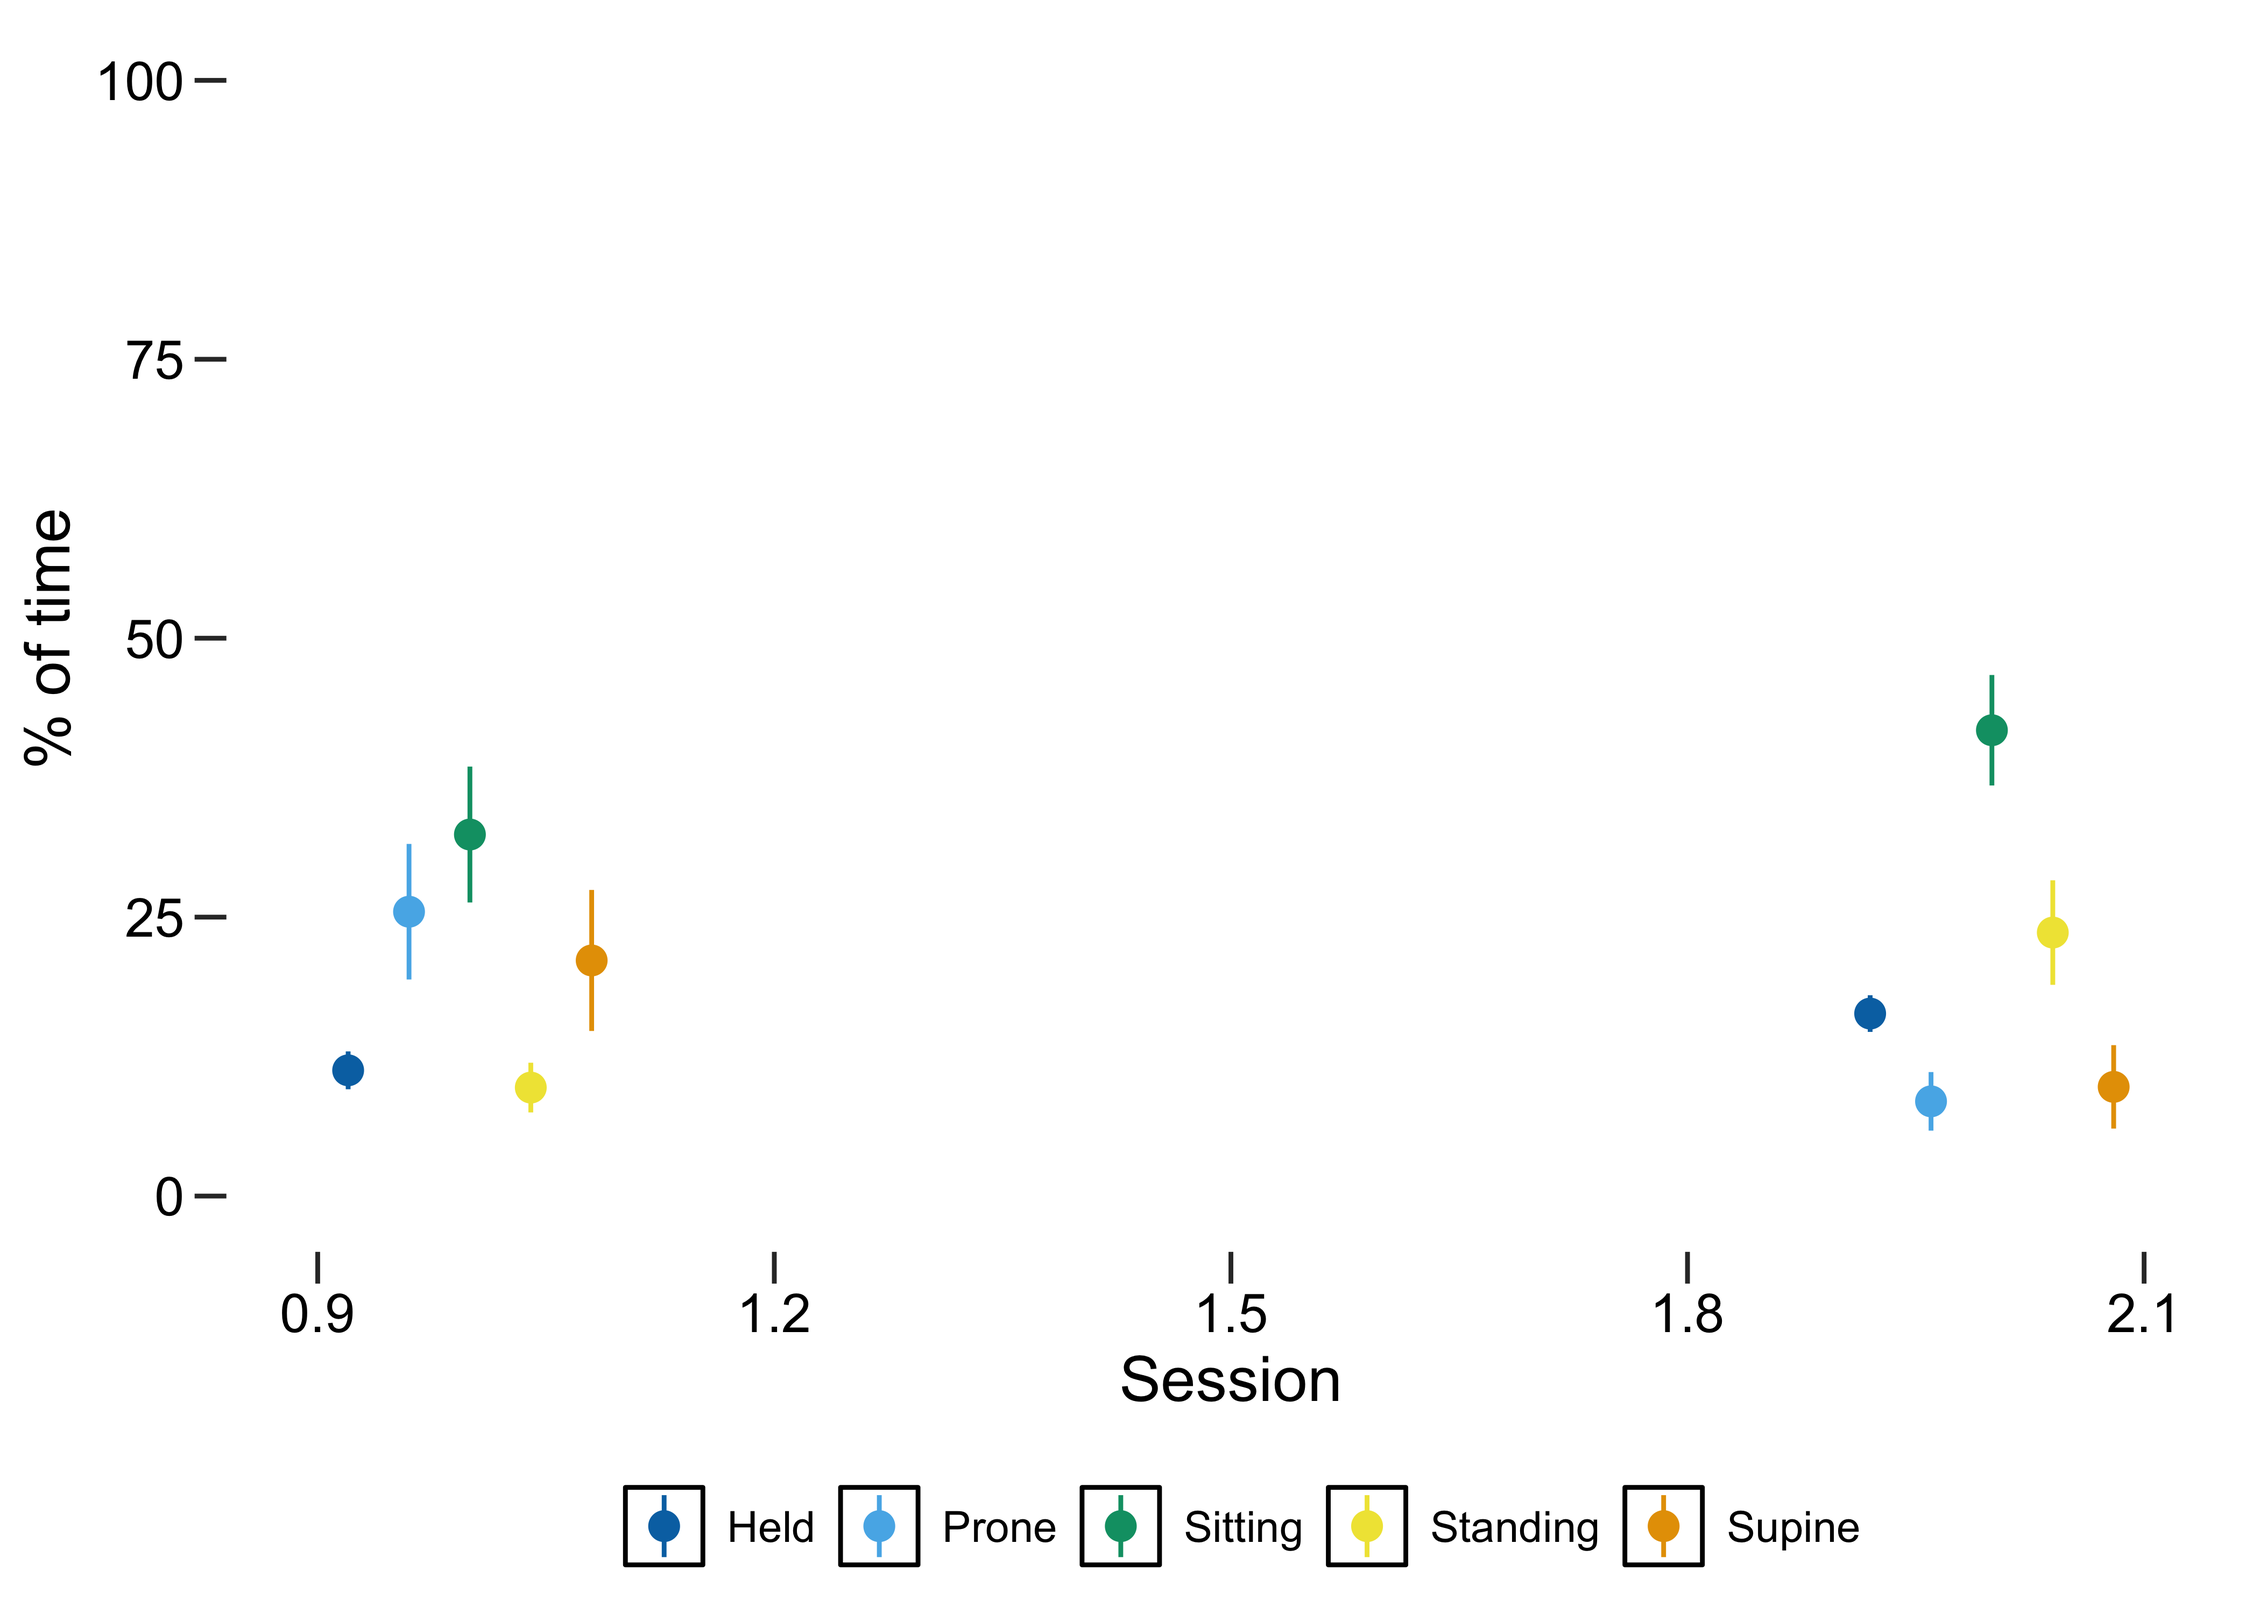
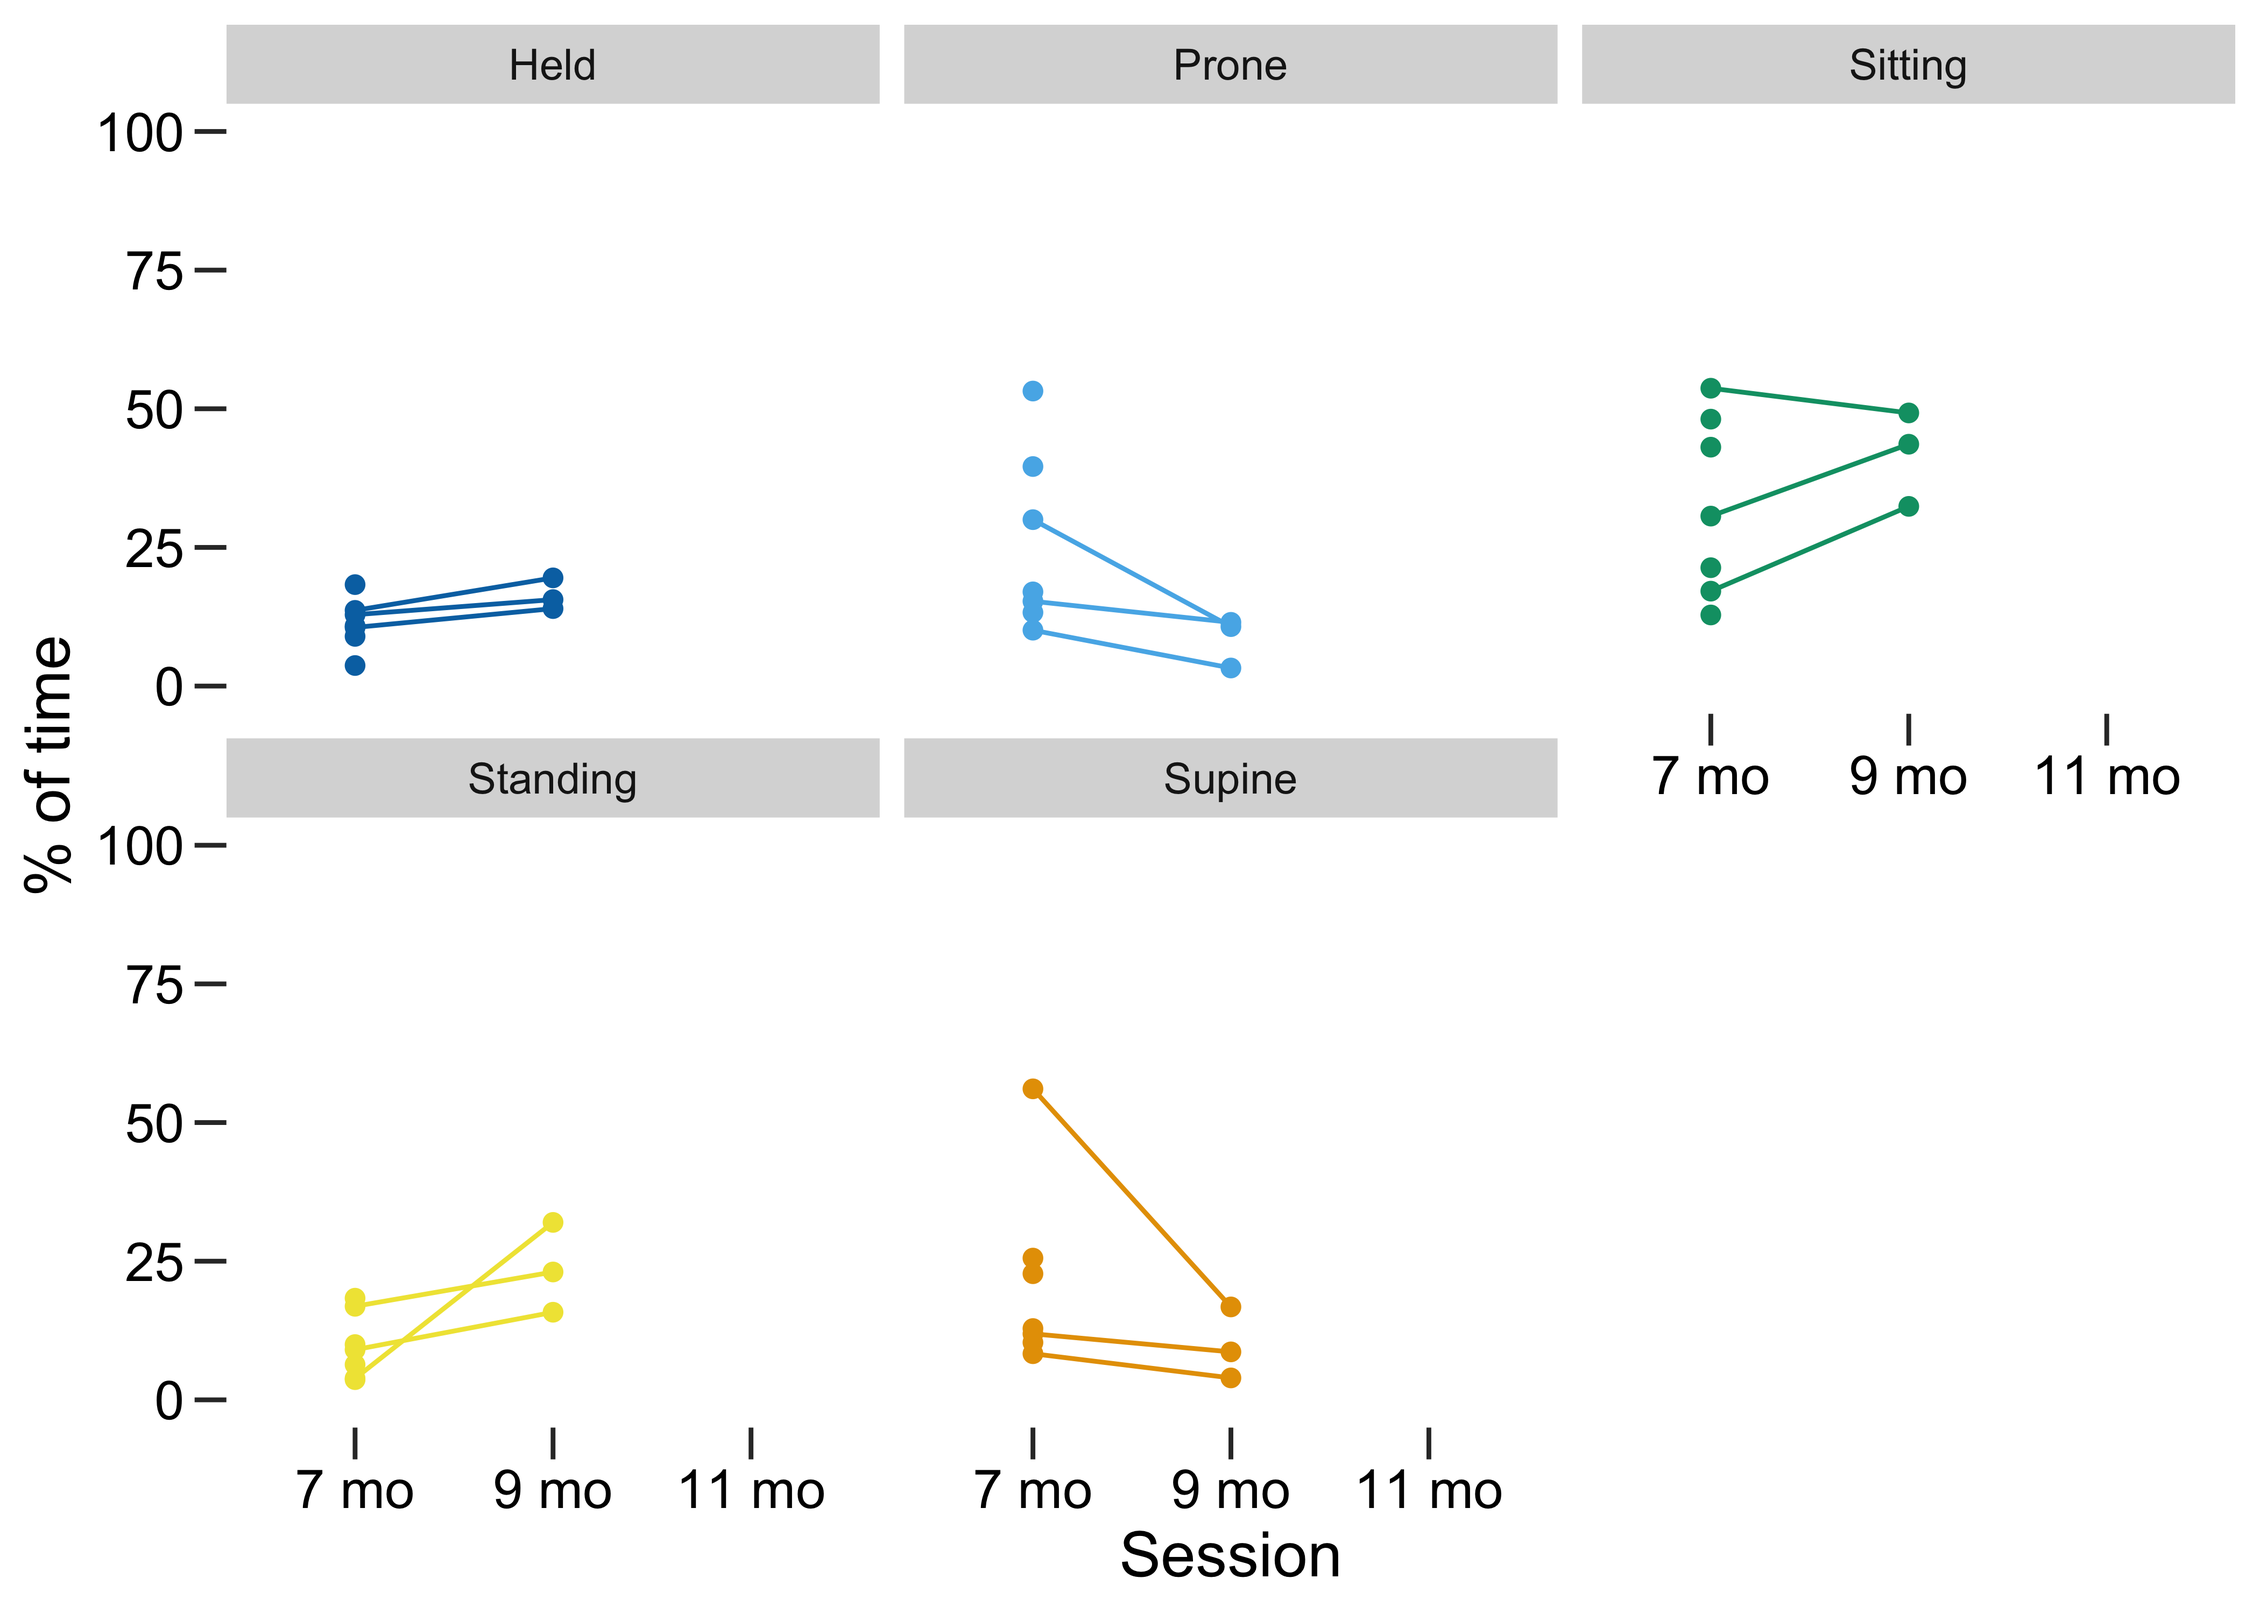
fixed summary look

diff --git a/docs/summaries.html b/docs/summaries.html
@@ -108,7 +108,7 @@ pre > code.sourceCode > span > a:first-child::before { text-decoration: underlin
 <link rel="stylesheet" href="styles.css">
 </head>
 
-<body class="nav-fixed">
+<body class="nav-fixed fullcontent">
 
 <div id="quarto-search-results"></div>
   <header id="quarto-header" class="headroom fixed-top">
@@ -176,18 +176,14 @@ pre > code.sourceCode > span > a:first-child::before { text-decoration: underlin
 
 </header>
 
-<nav id="TOC" role="doc-toc">
-    <h2 id="toc-title">On this page</h2>
-   
-  <ul>
-  <li><a href="#position-frequency" id="toc-position-frequency">Position Frequency</a></li>
-  </ul>
-</nav>
-<div class="line-block">Last updated: 2026-02-23 08:22:09</div>
-<section id="position-frequency" class="level2">
-<h2 data-anchor-id="position-frequency">Position Frequency</h2>
+
+<div class="line-block">Last updated: 2026-02-23 08:35:31</div>
+<section id="position-frequency-by-age-overall" class="level3">
+<h3 data-anchor-id="position-frequency-by-age-overall">Position Frequency by Age (Overall)</h3>
 <div class="cell">
-<div class="sourceCode cell-code" id="cb1"><pre class="sourceCode r code-with-copy"><code class="sourceCode r"><span id="cb1-1"><a href="#cb1-1" aria-hidden="true" tabindex="-1"></a>ds_sum <span class="sc">%&gt;%</span> <span class="fu">group_by</span>(pos, session) <span class="sc">%&gt;%</span> <span class="fu">get_summary_stats</span>(pos_prop, <span class="at">show =</span> <span class="fu">c</span>(<span class="st">"mean"</span>, <span class="st">"sd"</span>,<span class="st">"min"</span>,<span class="st">"max"</span>)) <span class="sc">%&gt;%</span> <span class="fu">select</span>(<span class="sc">-</span>variable)</span></code><button title="Copy to Clipboard" class="code-copy-button"><i class="bi"></i></button></pre></div>
+<div class="sourceCode cell-code" id="cb1"><pre class="sourceCode r code-with-copy"><code class="sourceCode r"><span id="cb1-1"><a href="#cb1-1" aria-hidden="true" tabindex="-1"></a>ds_sum <span class="sc">%&gt;%</span> <span class="fu">group_by</span>(pos, session) <span class="sc">%&gt;%</span> </span>
+<span id="cb1-2"><a href="#cb1-2" aria-hidden="true" tabindex="-1"></a>  <span class="fu">get_summary_stats</span>(pos_prop, <span class="at">show =</span> <span class="fu">c</span>(<span class="st">"mean"</span>, <span class="st">"sd"</span>,<span class="st">"min"</span>,<span class="st">"max"</span>)) <span class="sc">%&gt;%</span> </span>
+<span id="cb1-3"><a href="#cb1-3" aria-hidden="true" tabindex="-1"></a>  <span class="fu">select</span>(<span class="sc">-</span>variable)</span></code><button title="Copy to Clipboard" class="code-copy-button"><i class="bi"></i></button></pre></div>
 <div class="cell-output cell-output-stdout">
 <pre><code># A tibble: 10 × 7
    session pos          n  mean    sd   min   max
@@ -208,30 +204,32 @@ pre > code.sourceCode > span > a:first-child::before { text-decoration: underlin
 <div class="sourceCode cell-code" id="cb3"><pre class="sourceCode r code-with-copy"><code class="sourceCode r"><span id="cb3-1"><a href="#cb3-1" aria-hidden="true" tabindex="-1"></a><span class="fu">ggplot</span>(ds_sum, <span class="fu">aes</span>(<span class="at">x =</span> session, <span class="at">y =</span> pos_prop, <span class="at">color =</span> pos)) <span class="sc">+</span> </span>
 <span id="cb3-2"><a href="#cb3-2" aria-hidden="true" tabindex="-1"></a>  <span class="fu">stat_summary</span>(<span class="at">position =</span> <span class="fu">position_dodge</span>(.<span class="dv">2</span>)) <span class="sc">+</span> </span>
 <span id="cb3-3"><a href="#cb3-3" aria-hidden="true" tabindex="-1"></a>  <span class="fu">ylim</span>(<span class="dv">0</span>,<span class="dv">100</span>) <span class="sc">+</span> <span class="fu">ylab</span>(<span class="st">"% of time"</span>) <span class="sc">+</span> <span class="fu">xlab</span>(<span class="st">"Session"</span>) <span class="sc">+</span></span>
-<span id="cb3-4"><a href="#cb3-4" aria-hidden="true" tabindex="-1"></a>  <span class="fu">scale_color_manual</span>(<span class="at">values =</span> pal, <span class="at">name =</span><span class="st">""</span>) <span class="sc">+</span> </span>
-<span id="cb3-5"><a href="#cb3-5" aria-hidden="true" tabindex="-1"></a>  <span class="fu">theme</span>(<span class="at">legend.position =</span> <span class="st">"bottom"</span>)</span></code><button title="Copy to Clipboard" class="code-copy-button"><i class="bi"></i></button></pre></div>
-<div class="cell-output cell-output-stderr">
-<pre><code>No summary function supplied, defaulting to `mean_se()`</code></pre>
-</div>
+<span id="cb3-4"><a href="#cb3-4" aria-hidden="true" tabindex="-1"></a>  <span class="fu">scale_x_continuous</span>(<span class="at">breaks =</span> <span class="dv">1</span><span class="sc">:</span><span class="dv">3</span>, <span class="at">labels =</span> <span class="fu">c</span>(<span class="st">"7 mo"</span>,<span class="st">"9 mo"</span>,<span class="st">"11 mo"</span>), <span class="at">limits =</span> <span class="fu">c</span>(<span class="fl">0.5</span>,<span class="fl">3.5</span>)) <span class="sc">+</span> </span>
+<span id="cb3-5"><a href="#cb3-5" aria-hidden="true" tabindex="-1"></a>  <span class="fu">scale_color_manual</span>(<span class="at">values =</span> pal, <span class="at">name =</span><span class="st">""</span>) <span class="sc">+</span> </span>
+<span id="cb3-6"><a href="#cb3-6" aria-hidden="true" tabindex="-1"></a>  <span class="fu">theme</span>(<span class="at">legend.position =</span> <span class="st">"bottom"</span>)</span></code><button title="Copy to Clipboard" class="code-copy-button"><i class="bi"></i></button></pre></div>
 <div class="cell-output-display">
 <div>
 <figure class="figure">
-<p><a href="summaries_files/figure-html/unnamed-chunk-3-1.png" class="lightbox" data-gallery="quarto-lightbox-gallery-1"><img src="summaries_files/figure-html/unnamed-chunk-3-1.png" class="img-fluid figure-img" style="width:100.0%"></a></p>
+<p><a href="summaries_files/figure-html/frequency-means-by-age-1.png" class="lightbox" data-gallery="quarto-lightbox-gallery-1"><img src="summaries_files/figure-html/frequency-means-by-age-1.png" class="img-fluid figure-img" style="width:50.0%"></a></p>
 </figure>
 </div>
 </div>
 </div>
+</section>
+<section id="position-frequency-by-age-individual" class="level3">
+<h3 data-anchor-id="position-frequency-by-age-individual">Position Frequency by Age (Individual)</h3>
 <div class="cell">
-<div class="sourceCode cell-code" id="cb5"><pre class="sourceCode r code-with-copy"><code class="sourceCode r"><span id="cb5-1"><a href="#cb5-1" aria-hidden="true" tabindex="-1"></a><span class="fu">ggplot</span>(ds_sum, <span class="fu">aes</span>(<span class="at">x =</span> session, <span class="at">y =</span> pos_prop, <span class="at">color =</span> pos, <span class="at">group =</span> id)) <span class="sc">+</span> </span>
-<span id="cb5-2"><a href="#cb5-2" aria-hidden="true" tabindex="-1"></a>  <span class="fu">facet_wrap</span>(<span class="sc">~</span> pos) <span class="sc">+</span> </span>
-<span id="cb5-3"><a href="#cb5-3" aria-hidden="true" tabindex="-1"></a>  <span class="fu">geom_point</span>() <span class="sc">+</span> <span class="fu">geom_line</span>() <span class="sc">+</span>  </span>
-<span id="cb5-4"><a href="#cb5-4" aria-hidden="true" tabindex="-1"></a>  <span class="fu">ylim</span>(<span class="dv">0</span>,<span class="dv">100</span>) <span class="sc">+</span> <span class="fu">ylab</span>(<span class="st">"% of time"</span>) <span class="sc">+</span> <span class="fu">xlab</span>(<span class="st">"Session"</span>) <span class="sc">+</span></span>
-<span id="cb5-5"><a href="#cb5-5" aria-hidden="true" tabindex="-1"></a>  <span class="fu">scale_color_manual</span>(<span class="at">values =</span> pal, <span class="at">name =</span><span class="st">""</span>) <span class="sc">+</span> </span>
-<span id="cb5-6"><a href="#cb5-6" aria-hidden="true" tabindex="-1"></a>  <span class="fu">theme</span>(<span class="at">legend.position =</span> <span class="st">"none"</span>)</span></code><button title="Copy to Clipboard" class="code-copy-button"><i class="bi"></i></button></pre></div>
+<div class="sourceCode cell-code" id="cb4"><pre class="sourceCode r code-with-copy"><code class="sourceCode r"><span id="cb4-1"><a href="#cb4-1" aria-hidden="true" tabindex="-1"></a><span class="fu">ggplot</span>(ds_sum, <span class="fu">aes</span>(<span class="at">x =</span> session, <span class="at">y =</span> pos_prop, <span class="at">color =</span> pos, <span class="at">group =</span> id)) <span class="sc">+</span> </span>
+<span id="cb4-2"><a href="#cb4-2" aria-hidden="true" tabindex="-1"></a>  <span class="fu">facet_wrap</span>(<span class="sc">~</span> pos) <span class="sc">+</span> </span>
+<span id="cb4-3"><a href="#cb4-3" aria-hidden="true" tabindex="-1"></a>  <span class="fu">geom_point</span>() <span class="sc">+</span> <span class="fu">geom_line</span>() <span class="sc">+</span>  </span>
+<span id="cb4-4"><a href="#cb4-4" aria-hidden="true" tabindex="-1"></a>  <span class="fu">ylim</span>(<span class="dv">0</span>,<span class="dv">100</span>) <span class="sc">+</span> <span class="fu">ylab</span>(<span class="st">"% of time"</span>) <span class="sc">+</span> <span class="fu">xlab</span>(<span class="st">"Session"</span>) <span class="sc">+</span></span>
+<span id="cb4-5"><a href="#cb4-5" aria-hidden="true" tabindex="-1"></a>  <span class="fu">scale_x_continuous</span>(<span class="at">breaks =</span> <span class="dv">1</span><span class="sc">:</span><span class="dv">3</span>, <span class="at">labels =</span> <span class="fu">c</span>(<span class="st">"7 mo"</span>,<span class="st">"9 mo"</span>,<span class="st">"11 mo"</span>), <span class="at">limits =</span> <span class="fu">c</span>(<span class="fl">0.5</span>,<span class="fl">3.5</span>)) <span class="sc">+</span> </span>
+<span id="cb4-6"><a href="#cb4-6" aria-hidden="true" tabindex="-1"></a>  <span class="fu">scale_color_manual</span>(<span class="at">values =</span> pal, <span class="at">name =</span><span class="st">""</span>) <span class="sc">+</span> </span>
+<span id="cb4-7"><a href="#cb4-7" aria-hidden="true" tabindex="-1"></a>  <span class="fu">theme</span>(<span class="at">legend.position =</span> <span class="st">"none"</span>)</span></code><button title="Copy to Clipboard" class="code-copy-button"><i class="bi"></i></button></pre></div>
 <div class="cell-output-display">
 <div>
 <figure class="figure">
-<p><a href="summaries_files/figure-html/unnamed-chunk-4-1.png" class="lightbox" data-gallery="quarto-lightbox-gallery-2"><img src="summaries_files/figure-html/unnamed-chunk-4-1.png" class="img-fluid figure-img" style="width:100.0%"></a></p>
+<p><a href="summaries_files/figure-html/unnamed-chunk-3-1.png" class="lightbox" data-gallery="quarto-lightbox-gallery-2"><img src="summaries_files/figure-html/unnamed-chunk-3-1.png" class="img-fluid figure-img" style="width:100.0%"></a></p>
 </figure>
 </div>
 </div>
